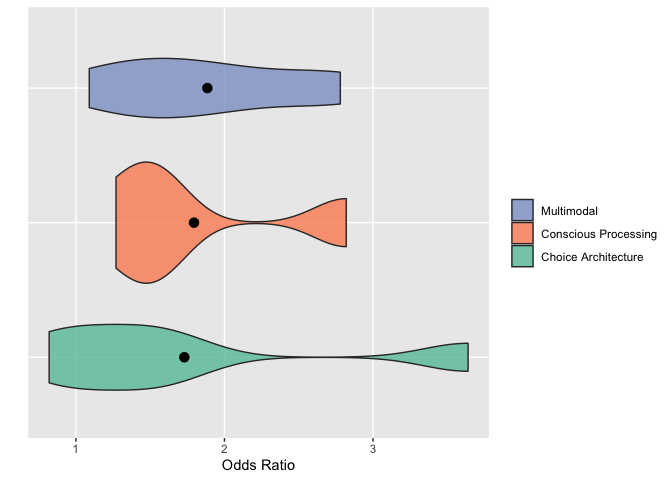
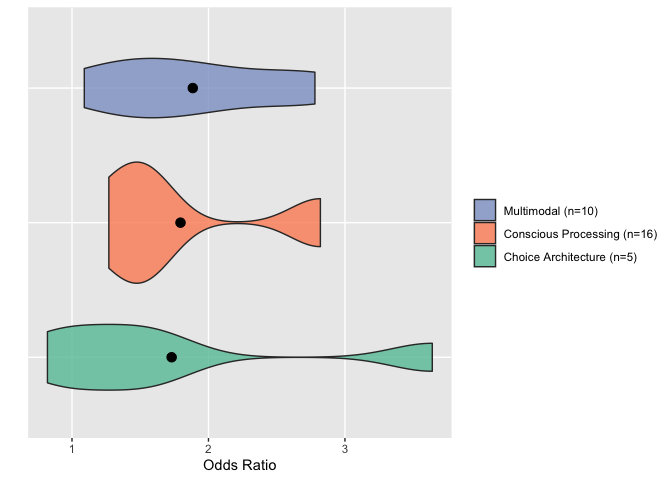
added stacked bar plot

diff --git a/markdowns/visuals.md b/markdowns/visuals.md
@@ -23,7 +23,7 @@ sr.dataset <- read.csv("~/github/university-meat-reduction/data/sr-dataset.csv")
 print(as_tibble(sr.dataset))
 ```
 
-    ## # A tibble: 31 × 16
+    ## # A tibble: 31 × 17
     ##    study.title   country year.…¹ eval.…² appro…³ outco…⁴ effec…⁵ effec…⁶ lower…⁷
     ##    <chr>         <chr>     <int> <chr>   <chr>   <chr>   <chr>     <dbl>   <dbl>
     ##  1 Andersson & … Sweden     2019 Betwee… Multim… Observ… ^          2.78    1   
@@ -36,10 +36,10 @@ print(as_tibble(sr.dataset))
     ##  8 Dissen & Cro… USA        2019 Both    Consci… Self-R… ^          3.2     1.68
     ##  9 Garnett et a… England    2018 Betwee… Choice… Observ… <>         1.07    1.01
     ## 10 Garnett et a… England    2017 Betwee… Choice… Observ… <>         0.82    0.78
-    ## # … with 21 more rows, 7 more variables: higher.ci <dbl>, num.strat <int>,
+    ## # … with 21 more rows, 8 more variables: higher.ci <dbl>, num.strat <int>,
     ## #   inform.mess <int>, financial.inc <int>, menu.pres <int>, area.layout <int>,
-    ## #   menu.off <int>, and abbreviated variable names ¹year.cond, ²eval.method,
-    ## #   ³approach, ⁴outcome.var, ⁵effect.dir, ⁶effect.mag, ⁷lower.ci
+    ## #   menu.off <int>, num.study <int>, and abbreviated variable names ¹year.cond,
+    ## #   ²eval.method, ³approach, ⁴outcome.var, ⁵effect.dir, ⁶effect.mag, ⁷lower.ci
 
 ## Reporting on Search Results
 
@@ -60,7 +60,12 @@ studies (n=31)’”)
 ## Comparing Success Rates Across the Three Identified Approaches
 
 ``` r
-ggplot(sr.dataset,aes(x=approach,y=effect.dir,fill=effect.dir))
+ggplot(sr.dataset,aes(x=approach,y=num.study,fill=effect.dir)) + 
+  geom_col(position="fill",alpha=.8) + 
+  scale_fill_brewer(palette ="Pastel1") +
+  xlab(" ") + 
+  ylab("Rate of Success") +
+  theme(panel.border=element_rect(color="black"),panel.grid.minor=element_blank())
 ```
 
 ![](visuals_files/figure-gfm/unnamed-chunk-3-1.png)<!-- -->
@@ -111,17 +116,13 @@ print(as_tibble(fixed.effect))
 ``` r
 ggplot(fixed.effect,aes(x=effect.mag,y=approach,fill=approach)) +
   geom_violin(alpha=0.8) + 
-  stat_summary(fun.x="mean",geom="point",shape=21,fill="black",size=3) +
-  scale_fill_brewer(palette="Set2",breaks=c("Multimodal","Conscious Processing","Choice Architecture")) +
+  stat_summary(fun="mean",geom="point",shape=21,fill="black",size=3) +
+  scale_fill_brewer(palette="Set2",breaks=c("Multimodal","Conscious Processing","Choice Architecture"),labels=c("Multimodal (n=10)","Conscious Processing (n=16)","Choice Architecture (n=5)")) +
   xlab("Odds Ratio") + 
   ylab(" ") +
   labs(fill=" ") +
   theme(axis.ticks.y=element_blank(),axis.text.y=element_blank(),panel.grid.minor=element_blank())
 ```
-
-    ## Warning: Ignoring unknown parameters: fun.x
-
-    ## No summary function supplied, defaulting to `mean_se()`
 
 ![](visuals_files/figure-gfm/unnamed-chunk-7-1.png)<!-- -->
 
@@ -139,7 +140,7 @@ ggplot(fixed.effect,aes(x=effect.mag,y=study.title,color=approach)) +
   ylab(" ") + 
   scale_x_continuous(breaks=c(0,2,4,6,8),limits=c(0,8)) +
   labs(color="Approach") +
-  scale_color_brewer(palette="Set2") +
+  scale_color_brewer(breaks=c("Multimodal","Conscious Processing","Choice Architecture"),palette="Set2",labels=c("Multimodal (n=10)","Conscious Processing (n=16)","Choice Architecture (n=5)")) +
   scale_y_discrete(limits=c("Garnett et al. (2020a)","Garnett et al. (2021)","Brunner et al. (2018)","Schwitzgebel, Cokelet, & Singer (2020)","Malan (2020)","Larner et al. (2021)","Kurz (2018)","Garnett et al. (2019)","Jalil, Tasoff, & Bustamante (2020)","Turnwald & Crum (2019)","Cerezo-Prieto & Frutos-Esteban (2021)","Piester et al. (2020a)","Piester et al. (2020b)","Slapø & Karevold (2019)","Andersson & Nelander (2021)","Michels et al. (2008)","Garnett et al. (2020b)")) + 
   theme(panel.grid.minor=element_blank())
 ```
